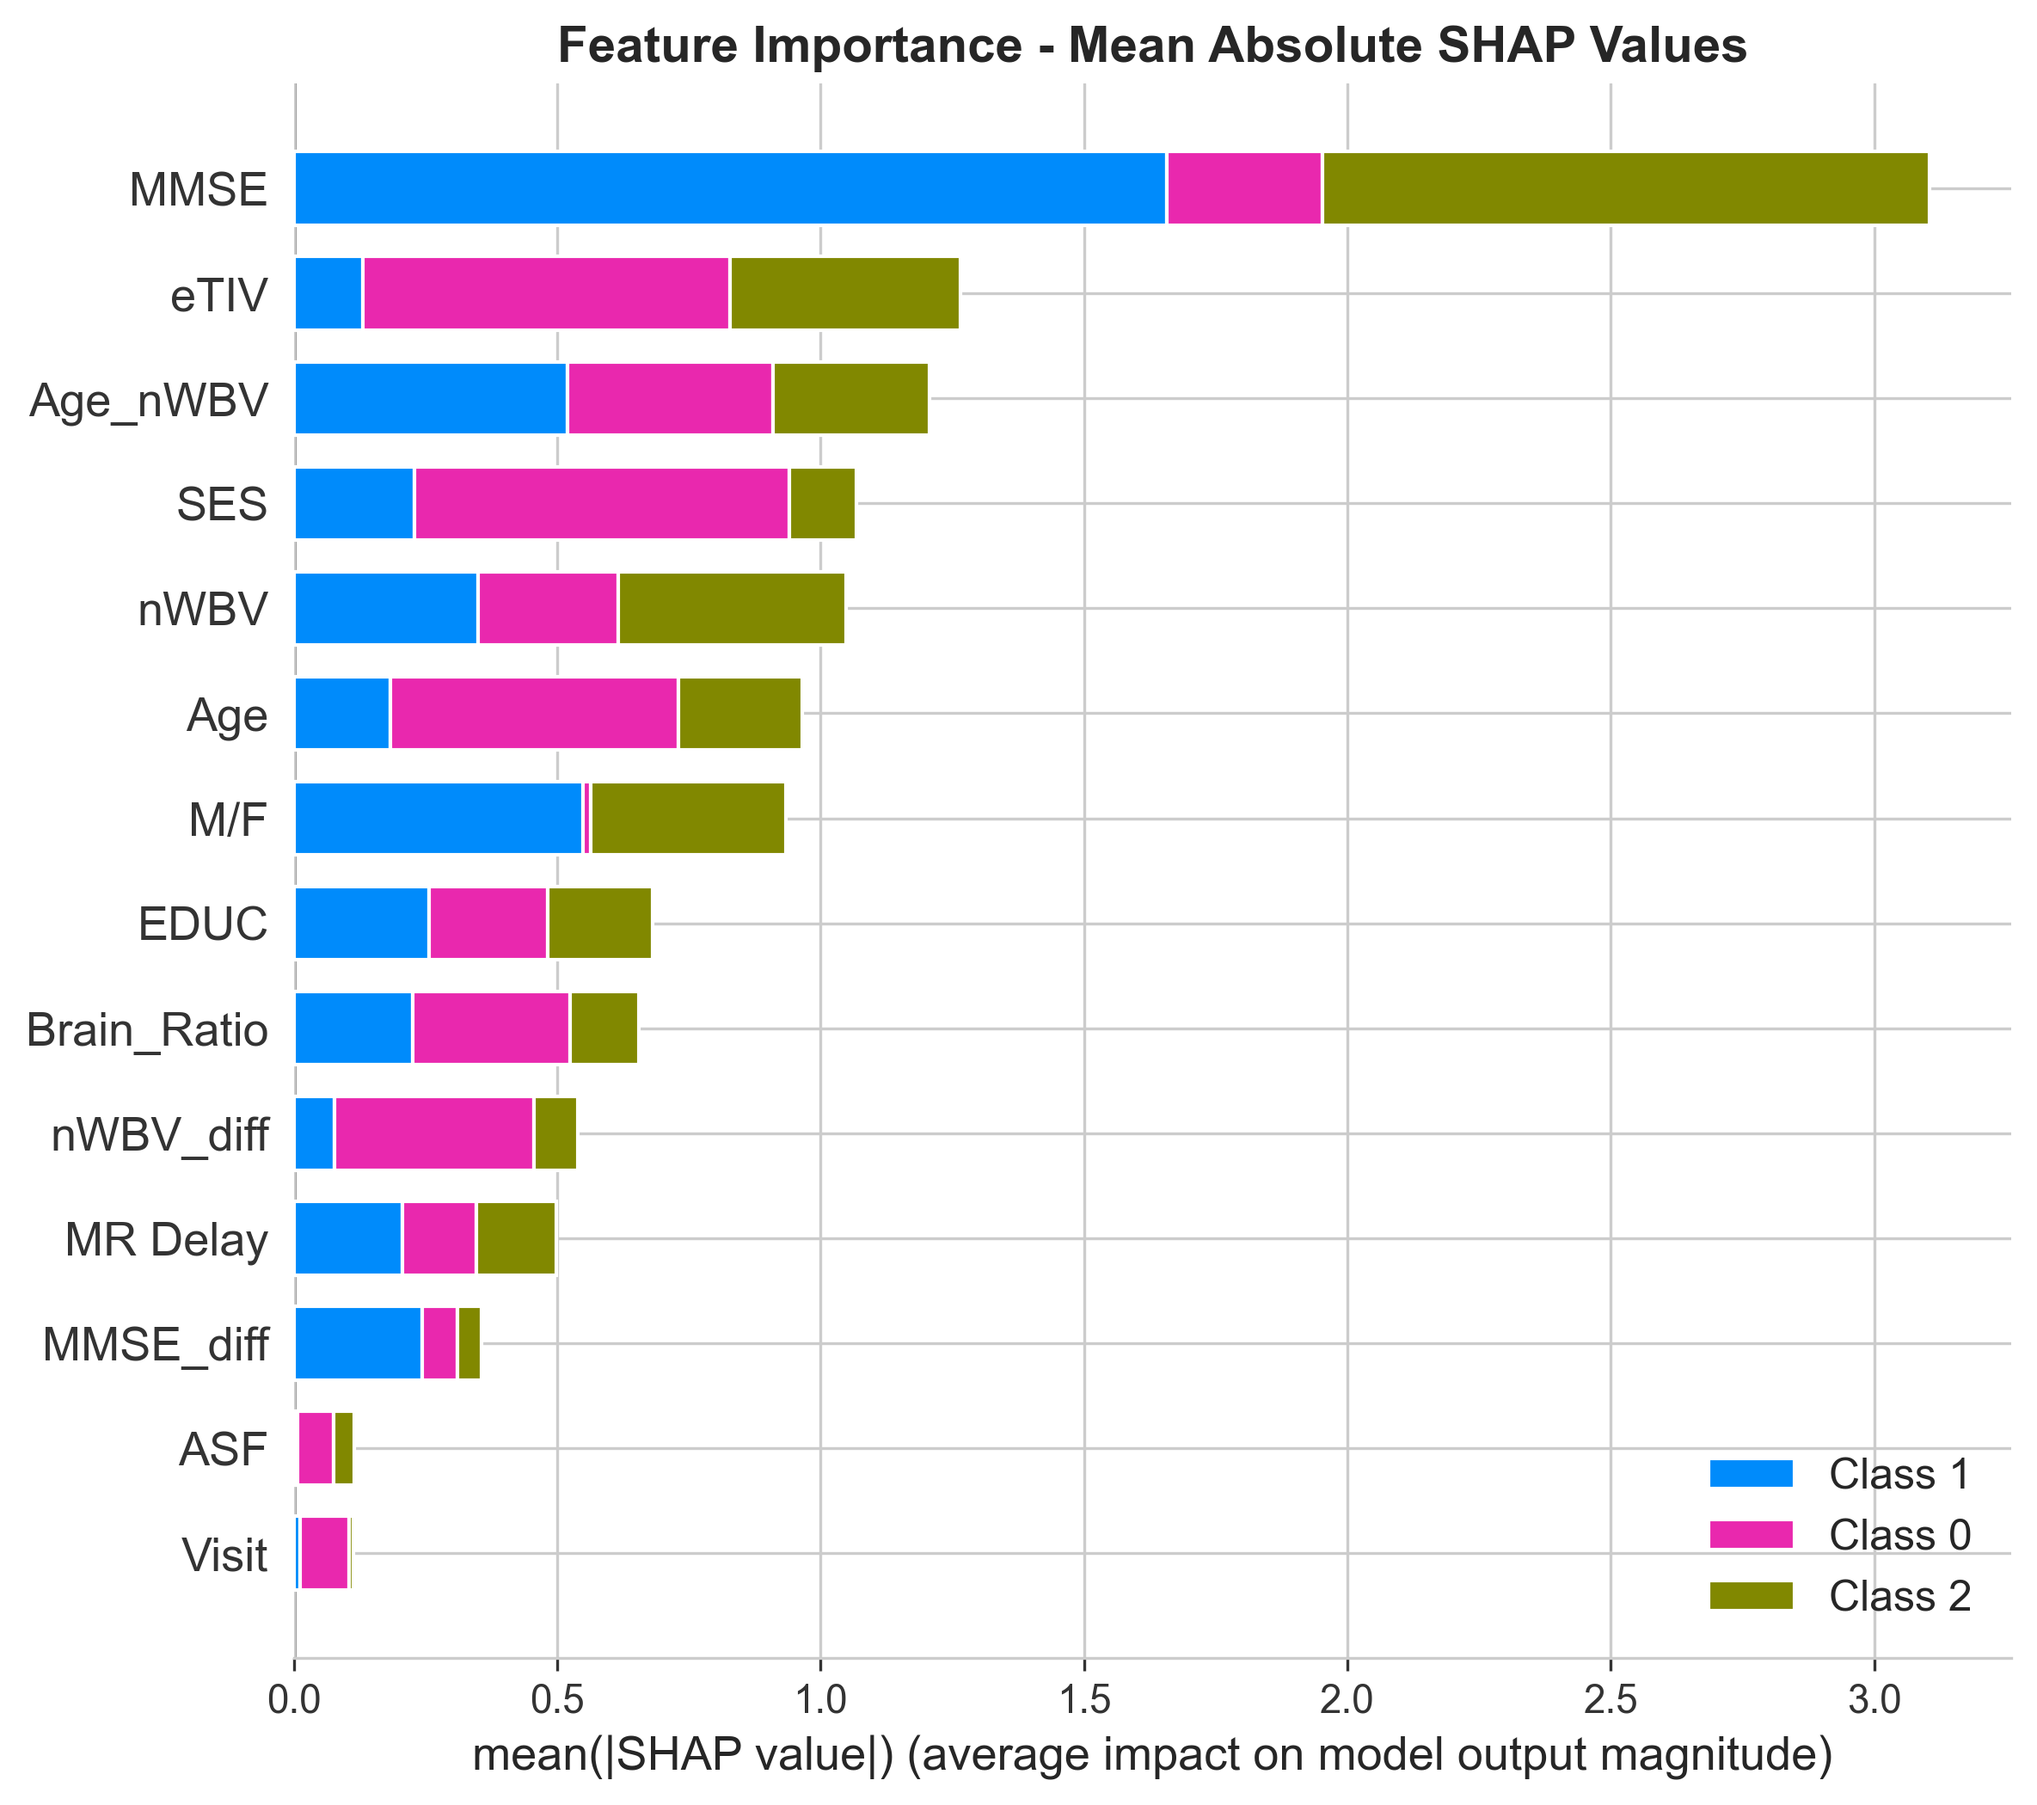
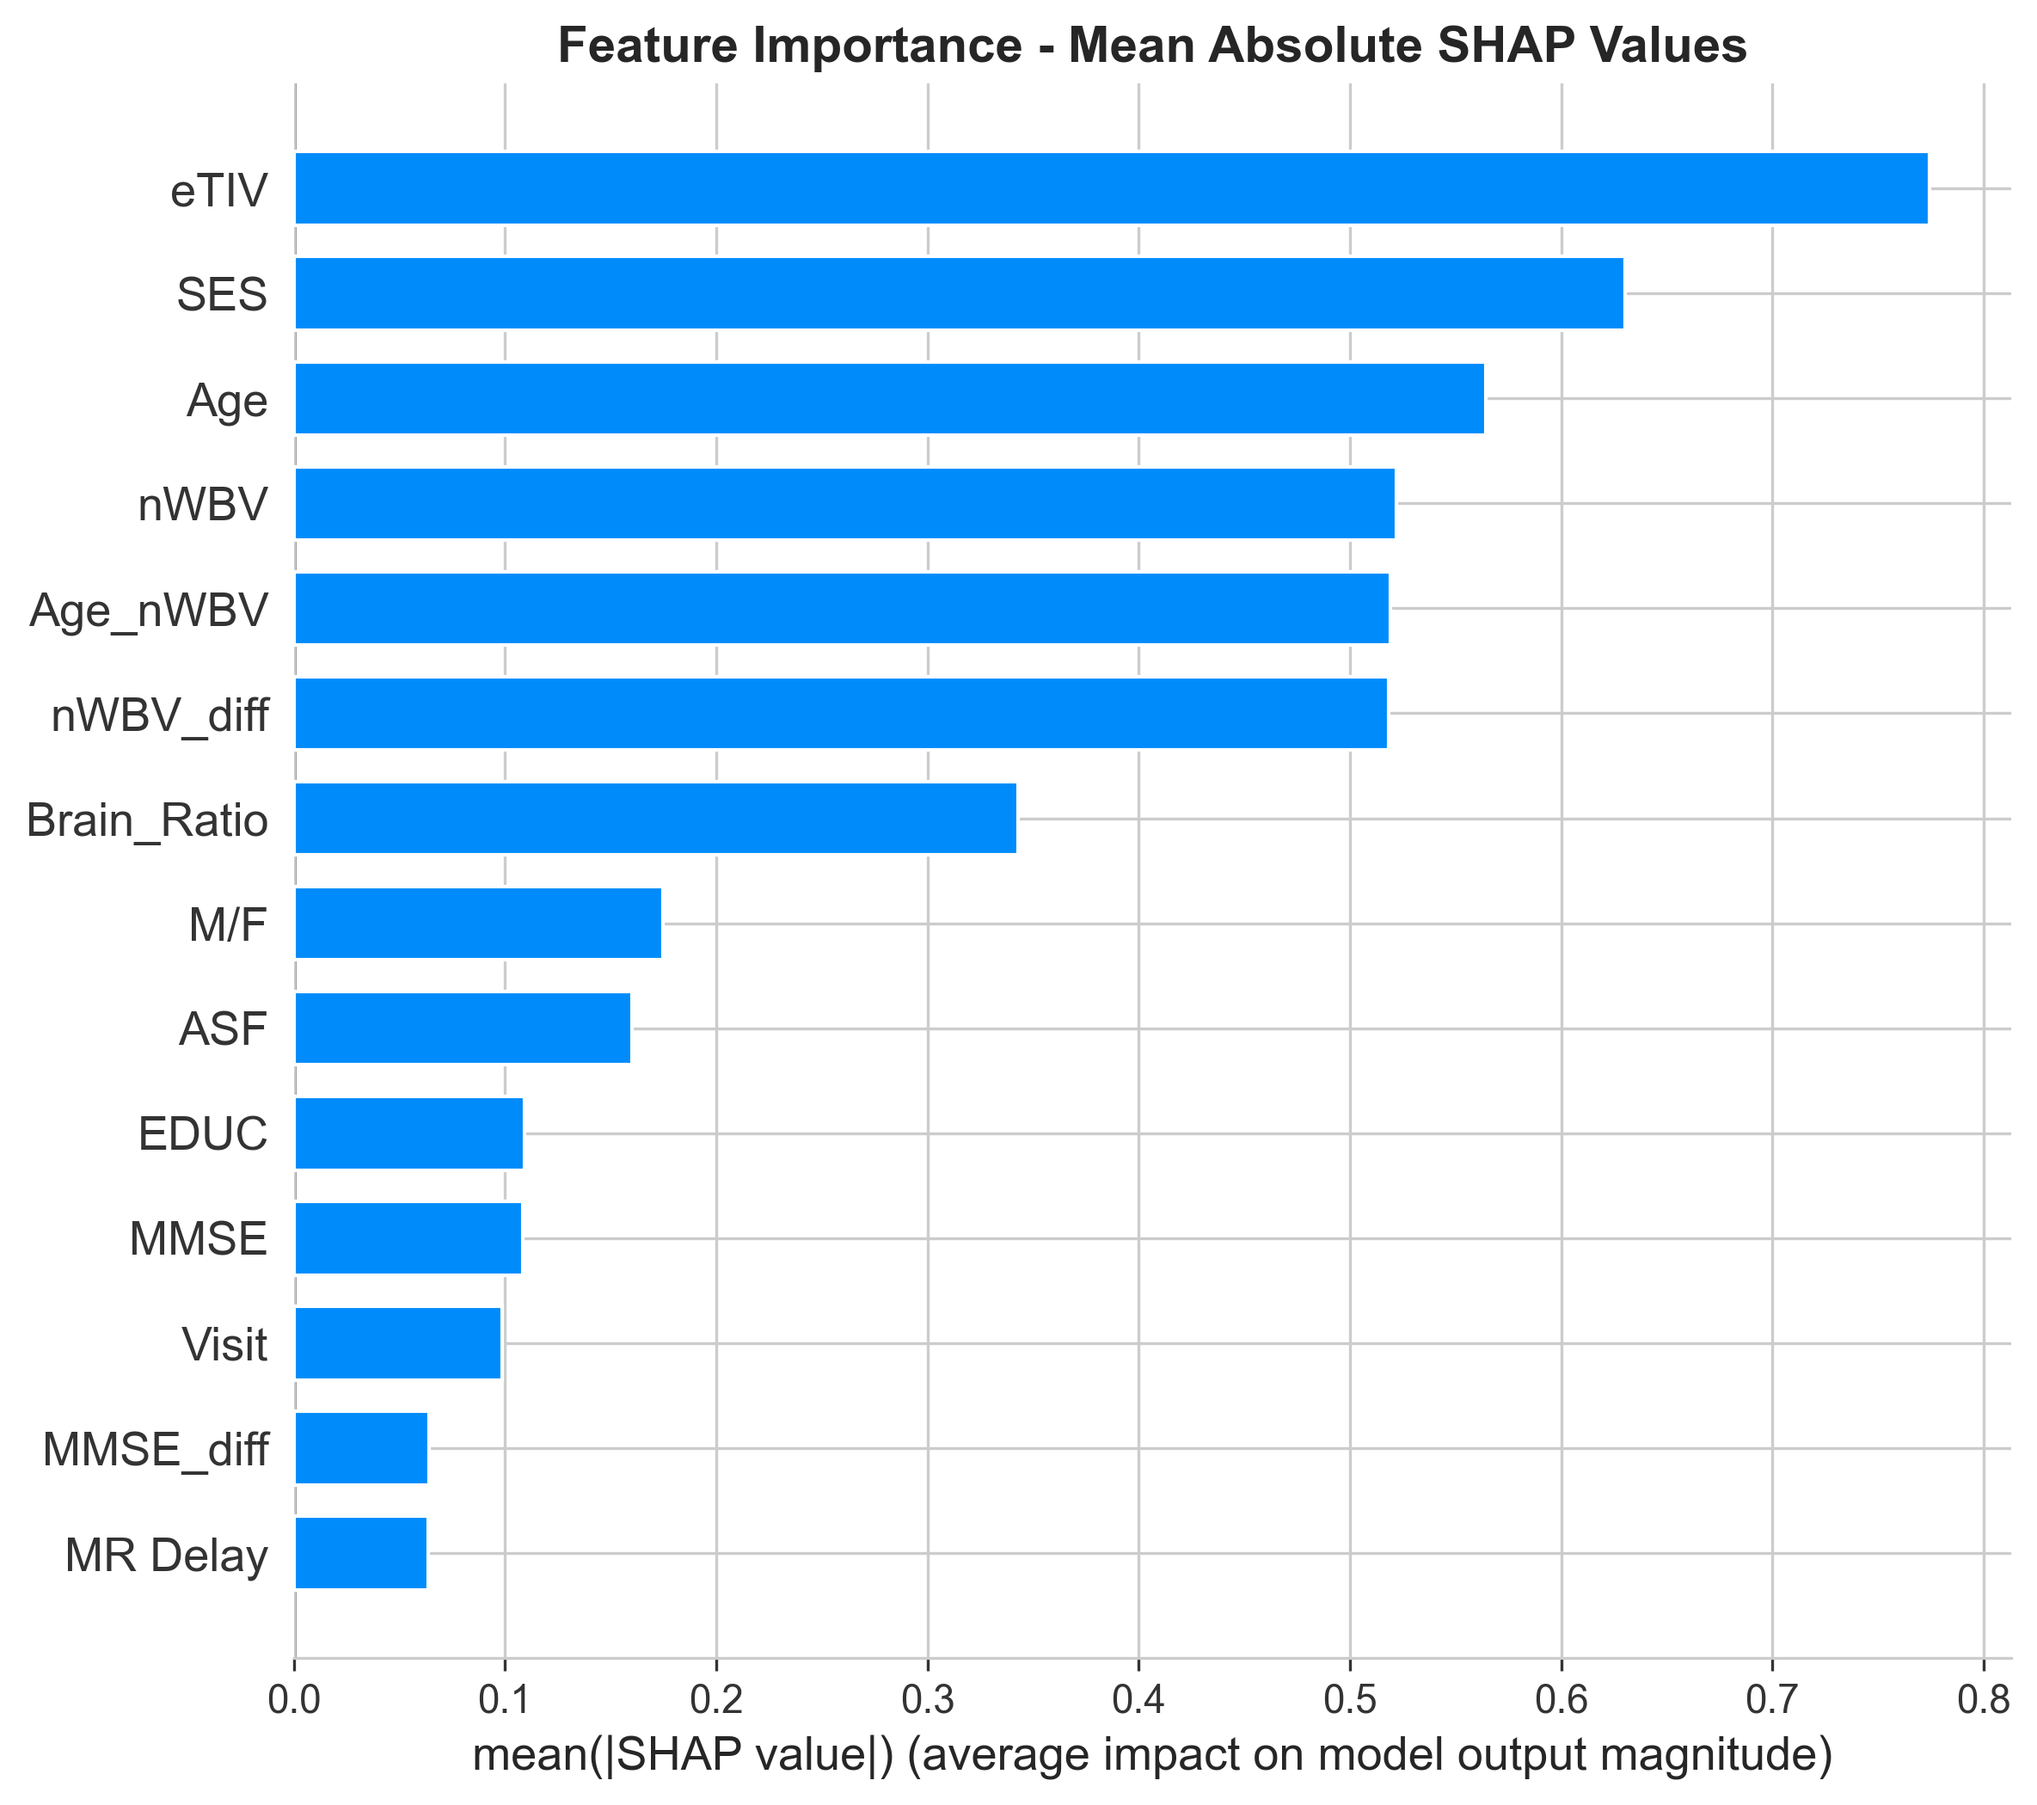
update shap analysis

diff --git a/src/shap_visualizations.py b/src/shap_visualizations.py
@@ -1,6 +1,4 @@
-"""
-SHAP visualization functions for model interpretability
-"""
+
 import shap
 import matplotlib.pyplot as plt
 import pandas as pd
@@ -13,24 +11,26 @@ from pathlib import Path
 PROJECT_ROOT = Path(__file__).parent.parent
 
 def load_shap_data(model_dir="models"):
-    """Load models and preprocessed data for SHAP analysis.
     
-    Args:
-        model_dir: Path to models directory (default: 'models')
-    """
     # Convert to absolute path if relative
     if not os.path.isabs(model_dir):
         model_dir = PROJECT_ROOT / model_dir
     else:
         model_dir = Path(model_dir)
     
-    # Check if files exist
-    required_files = [model_dir / f for f in ["model2.pkl", "imputer.pkl", "scaler.pkl", "le.pkl"]]
+    # Allow either legacy names (model2.pkl) or stage naming (model_stage2.pkl)
+    model2_path = model_dir / "model2.pkl"
+    if not model2_path.exists():
+        stage2_path = model_dir / "model_stage2.pkl"
+        if stage2_path.exists():
+            model2_path = stage2_path
+
+    required_files = [model2_path, model_dir / "imputer.pkl", model_dir / "scaler.pkl", model_dir / "le.pkl"]
     missing = [str(f) for f in required_files if not f.exists()]
     if missing:
         raise FileNotFoundError(f"Missing model files: {missing}")
     
-    model2 = joblib.load(str(model_dir / "model2.pkl"))
+    model2 = joblib.load(str(model2_path))
     imputer = joblib.load(str(model_dir / "imputer.pkl"))
     scaler = joblib.load(str(model_dir / "scaler.pkl"))
     le = joblib.load(str(model_dir / "le.pkl"))
@@ -61,7 +61,7 @@ def plot_force_plot(explainer, shap_values, X_processed, sample_idx=0):
 
 
 def plot_summary_plot(explainer, shap_values, X_processed, plot_type="bar"):
-    """Plot SHAP summary plot."""
+
     if plot_type == "bar":
         shap.summary_plot(shap_values, X_processed, plot_type="bar")
     else:
@@ -70,13 +70,11 @@ def plot_summary_plot(explainer, shap_values, X_processed, plot_type="bar"):
 
 
 def plot_dependence_plot(explainer, shap_values, X_processed, feature_name):
-    """Plot SHAP dependence plot for a specific feature."""
     shap.dependence_plot(feature_name, shap_values.values, X_processed)
     plt.tight_layout()
 
 
 def plot_waterfall_plot(explainer, shap_values, X_processed, sample_idx=0):
-    """Plot SHAP waterfall plot for a single sample."""
     return shap.plots.waterfall(
         shap.Explanation(
             values=shap_values.values[sample_idx],
@@ -88,14 +86,8 @@ def plot_waterfall_plot(explainer, shap_values, X_processed, sample_idx=0):
 
 
 def get_feature_importance(shap_values, feature_names, top_n=10):
-    """Extract top N important features based on mean absolute SHAP values.
+   
     
-    Args:
-        shap_values: SHAP values (Explanation object)
-        feature_names: List of feature names
-        top_n: Number of top features to return
-    """
-    # Handle multiclass (3D) SHAP values by taking mean across classes
     sv = shap_values.values
     if len(sv.shape) == 3:
         # Multiclass: (n_samples, n_features, n_classes)
@@ -114,18 +106,10 @@ def get_feature_importance(shap_values, feature_names, top_n=10):
 
 
 def analyze_feature_contribution(explainer, shap_values, X_processed, feature_name):
-    """Get statistics about a feature's contribution to predictions.
-    
-    Args:
-        explainer: SHAP explainer object
-        shap_values: SHAP values (Explanation object)
-        X_processed: Processed feature data
-        feature_name: Name of feature to analyze
-    """
+   
     feature_idx = X_processed.columns.tolist().index(feature_name)
     sv = shap_values.values
     
-    # Handle multiclass (3D) SHAP values by taking mean across classes
     if len(sv.shape) == 3:
         # Multiclass: (n_samples, n_features, n_classes)
         # Take mean across classes for each sample

diff --git a/src/shap_analysis.py b/src/shap_analysis.py
@@ -9,8 +9,8 @@ import joblib
 import os
 from pathlib import Path
 
-from src.data_processing import load_and_clean, add_features
-from src.shap_visualizations import (
+from data_processing import load_and_clean, add_features
+from shap_visualizations import (
     load_shap_data,
     prepare_shap_data,
     get_shap_explainer,
@@ -63,7 +63,7 @@ importance_df = get_feature_importance(
 print("\n   Top 15 Features by Importance:")
 print("   " + "-" * 50)
 for idx, row in importance_df.iterrows():
-    print(f"   {idx+1:2d}. {row['feature']:15s} → {row['importance']:.4f}")
+    print(f"   {idx+1:2d}. {row['feature']:15s} -> {row['importance']:.4f}")
 
 # Save to CSV
 importance_df.to_csv("outputs/shap_feature_importance.csv", index=False)
@@ -87,8 +87,12 @@ top_4_features = importance_df.head(4)['feature'].tolist()
 print("   2. Creating SHAP values beeswarm plot...")
 
 plt.figure(figsize=(14, 10))
-# For multiclass, we need to sum SHAP values across classes
-shap_values_summed = np.abs(shap_values.values).mean(axis=2)  # Average across classes
+# SHAP can be either 2D (n_samples, n_features) or 3D (n_samples, n_features, n_classes)
+sv = shap_values.values
+if sv.ndim == 3:
+    shap_values_summed = np.abs(sv).mean(axis=2)  # Average across classes
+else:
+    shap_values_summed = sv
 shap.summary_plot(
     shap.Explanation(values=shap_values_summed, base_values=np.mean(shap_values_summed),
                     data=X_processed.values, feature_names=X_processed.columns.tolist()),
@@ -104,8 +108,11 @@ print("      - Saved: outputs/02_shap_values_distribution.png")
 
 print("   3. Creating dependence plots for top 4 features...")
 
-# For multiclass, average SHAP values across classes
-shap_values_mean = np.mean(np.abs(shap_values.values), axis=2)
+# For multiclass, average SHAP values across classes; otherwise just use absolute SHAP values
+if sv.ndim == 3:
+    shap_values_mean = np.abs(sv).mean(axis=2)
+else:
+    shap_values_mean = np.abs(sv)
 shap_values_mean_df = pd.DataFrame(shap_values_mean, columns=X_processed.columns)
 
 fig, axes = plt.subplots(2, 2, figsize=(14, 10))
@@ -198,15 +205,15 @@ KEY FINDINGS:
                   for i, (_, row) in enumerate(importance_df.head(5).iterrows())])}
 
 2. FEATURE IMPACT INTERPRETATION:
-   • Positive SHAP values  - Increase prediction likelihood
-   • Negative SHAP values  - Decrease prediction likelihood
-   • Larger magnitude      - Stronger influence on prediction
+   - Positive SHAP values  - Increase prediction likelihood
+   - Negative SHAP values  - Decrease prediction likelihood
+   - Larger magnitude      - Stronger influence on prediction
 
 3. MODEL INSIGHTS:
-   • Total samples analyzed:    {X_processed.shape[0]}
-   • Total features:            {X_processed.shape[1]}
-   • Number of classes:         {len(le.classes_)}
-   • Classes:                   {', '.join(le.classes_)}
+   - Total samples analyzed:    {X_processed.shape[0]}
+   - Total features:            {X_processed.shape[1]}
+   - Number of classes:         {len(le.classes_)}
+   - Classes:                   {', '.join(le.classes_)}
 
 """)
 
